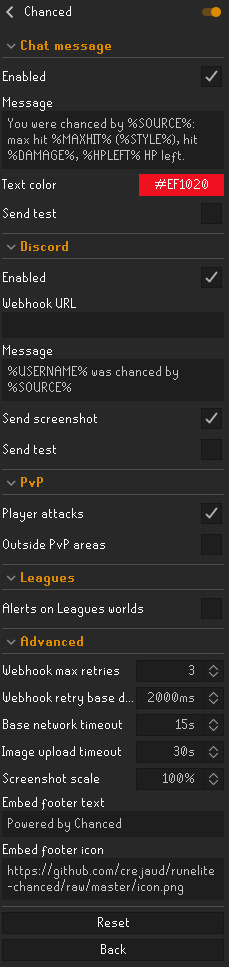
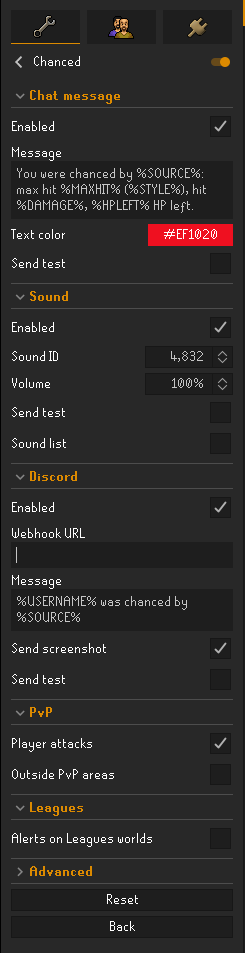
Update the README settings screenshot

diff --git a/README.md b/README.md
@@ -58,7 +58,7 @@ flowchart TD
 
 ## Settings
 
-<img src="docs/settings.png" alt="Chanced settings" width="229">
+<img src="docs/settings.png" alt="Chanced settings" width="245">
 
 Hover a setting in RuneLite for its description. The *Send test* checkboxes untick themselves after sending. The sound
 plays at its own volume, even with game sound effects muted; find sound IDs in the OSRS Wiki's
